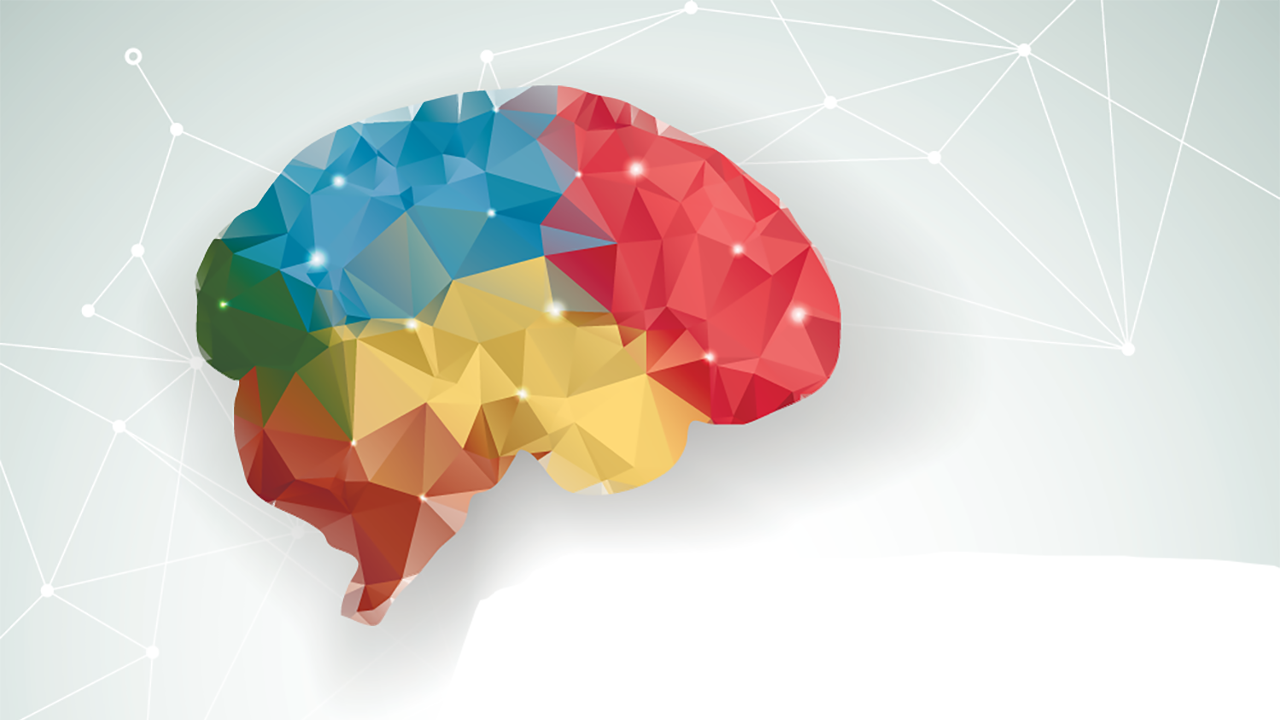
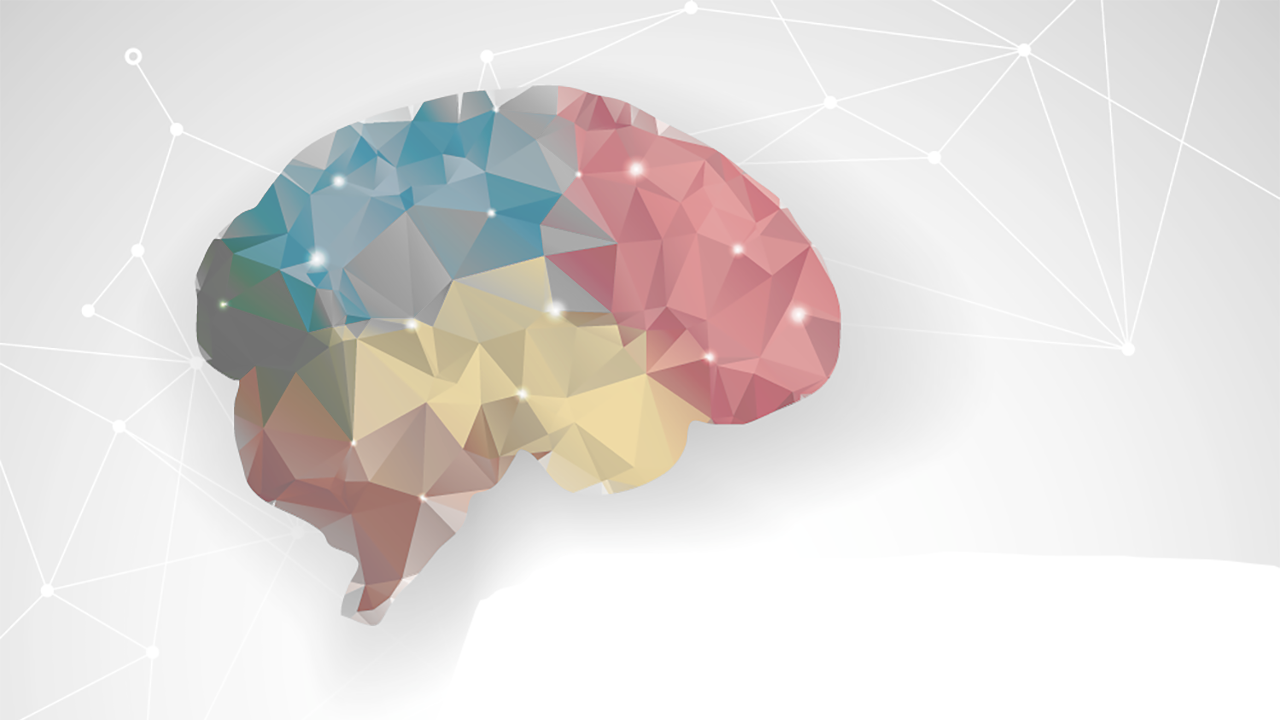
Update to work

Changed region(s): [[0.1562, 0.1222, 0.6562, 0.8861]]

diff --git a/Goal.js b/Goal.js
@@ -271,26 +271,58 @@ function init(relationship) {
                 { type: "html", name: "info", html: "<p> Most of us have goals--situations, conditions, states we are trying to make happen in the future.  In this measure, you will identify and describe the most important goals that you have had, that you are typically or characteristically trying to make happen.</p><p>Do not write down new goals that you create just for the purpose of this measure.  Only write down goals that have been on your mind before now, that you have already been directing effort towards and acting upon.</p><p> To help you identify your most important goals, you will first complete a brainstorming exercise.</p><p><b>Brainstorming</b></p><p> To help you identify your most important goals, you will first reflect on what you typically do in different life areas or domains.  After you reflect on what you are typically doing, you will then be asked if you have a goal in that life area, and if so, to describe that goal.</p>"}
             ]},
             
+            {questions: [
+                { type: "html", name: "title", html: "<b>Work/Job/Career</b>"
+                },
+                {
+                type: "comment",
+                name: "work",
+                title: "First, describe what you typically do that is related to making money, work, job, or career.  What daily actions or characteristic behaviors of yours relate to work-job-career? What types of situations do you seek out related to work-job-career (e.g. drive to Walmarts to do my shift, go to school to get a degree, try to impress my boss, invest money in stocks, etc.)?"
+                }
+            ]},
             
+            {questions: [
+                {
+                    type: "radiogroup",
+                    name: "workGoalBool",
+                    title: "After reflecting on your actions in this area, do you think that you have had a goal-before now--related to work/job/career?",
+                    choices: ["Yes", "No"]
+                },
+                {
+                    type: "comment",
+                    name: "workGoal",
+                    title: "Write your most important goal you have related to money and/or a job/occupation/career."
+                }
+            ]}, 
+            
+            {questions: [
+                {
+                    type: "radiogroup",
+                    name: "largerGoalBool",
+                    title: "Is your goal a part of a broader, larger goal related to money/work/career? For instance, a goal to pass a class may relate to a larger goal of attaining a meaningful and rewarding career.",
+                    choices: ["Yes", "No"]
+                },
+                {
+                    type: "comment",
+                    name: "largerGoal",
+                    title: "Write whatever is your broadest or largest goal related to money/job/career:"
+                }
+            ]}, 
             
             {questions: [
                 {//Radio group asking about how freuqnetly the person thinks about the relationship they are answering about.
                     type: "radiogroup",
                     name: "thoughtsrel0",
-                    title: "How often are thoughts of your " + relationship[0] + " on your mind?",
+                    title: "How often are thoughts of your goal on your mind?",
                     colCount: 0,
                     isRequired: true,
-                    choices: ["I don't have a " + relationship[0], "Never", "Rarely", "sometimes|Occasionally/sometimes", "Often", "time|Most of the Time", "Always"]
+                    choices: ["Never", "Rarely", "sometimes|Occasionally/sometimes", "Often", "time|Most of the Time", "Always"]
                 }
             ]},
             {questions: [
-    
-                //This html describes how to think about the next set of questions.
-                { type: "html", name: "inforel0", visibleIf: "{thoughtsrel0} contains 'Always' or {thoughtsrel0}='Often' or {thoughtsrel0}='time' or {thoughtsrel0}='sometimes' or {thoughtsrel0}='Rarely'", visible: false, html: "</p> <p> Think about a typical experience with your " + relationship[0] + ". Picture your " + relationship[0] + "’s face, and try to form a good image of your " + relationship[0] + ", getting an experience of You-with-your-" + relationship[0] + ".  It might help to imagine what typically happens between the two of you: what your " + relationship[0] + " does and says, how your " + relationship[0] + " does it, and what you do and say, how you do it, as well as what you are trying to do. </p> <p> Once you have recreated this experience of You-with-your-" + relationship[0] + ", please read each of the following items carefully, and rate the extent to which each statement is generally true for how you feel and think about yourself when you are interacting with your " + relationship[0] + " (now, at this point in your life)."},
-
                 
                 //A matrix question is a set of questions using a likert or likert-like scale. So the scale goes across the top (columns), and the questions allong the side(rows). Values will be useful in the final data set. Text is what is visible to the participant.   
-                { type: "matrix", name: "Qualityrel0", title: "When I interact with my " + relationship[0] + ", I feel  ... ", visibleIf: "{thoughtsrel0} contains 'Always' or {thoughtsrel0}='Often' or {thoughtsrel0}='time' or {thoughtsrel0}='sometimes' or {thoughtsrel0}='Rarely'", visible: false, isRequired: true,
+                { type: "matrix", name: "Qualityrel0", title: "When I think about my goal or when I am doing activities related to my goal, I feel: ", visibleIf: "{thoughtsrel0} contains 'Always' or {thoughtsrel0}='Often' or {thoughtsrel0}='time' or {thoughtsrel0}='sometimes' or {thoughtsrel0}='Rarely'", visible: false, isRequired: true,
                         columns: [{ value: 1, text: "Not True At All" },
                             { value: 2, text: " " },
                             { value: 3, text: " " },
@@ -318,7 +350,7 @@ function init(relationship) {
                     title: "How often are thoughts of your " + relationship[1] + " on your mind?",
                     colCount: 0,
                     isRequired: true,
-                    choices: ["I don't have a " + relationship[1], "Never", "Rarely", "sometimes|Occasionally/sometimes", "Often", "time|Most of the Time", "Always"]
+                    choices: ["Never", "Rarely", "sometimes|Occasionally/sometimes", "Often", "time|Most of the Time", "Always"]
                 }
             ]},
             {questions: [
@@ -356,7 +388,7 @@ function init(relationship) {
                     title: "How often are thoughts of your " + relationship[2] + " on your mind?",
                     colCount: 0,
                     isRequired: true,
-                    choices: ["I don't have a " + relationship[2], "Never", "Rarely", "sometimes|Occasionally/sometimes", "Often", "time|Most of the Time", "Always"]
+                    choices: ["Never", "Rarely", "sometimes|Occasionally/sometimes", "Often", "time|Most of the Time", "Always"]
                 }
             ]},
             {questions: [
@@ -394,10 +426,10 @@ function init(relationship) {
                     //Just some words added to the question
                     type: "radiogroup",
                     name: "thoughtsrel3",
-                    title: "How often are thoughts of your " + relationship[3] + " on your mind? (If you have more than one " + relationship[3] + ", answer this question for the one who you think about most frequently)",
+                    title: "How often are thoughts of your " + relationship[3] + " on your mind?",
                     colCount: 0,
                     isRequired: true,
-                    choices: ["I don't have a " + relationship[3], "Never", "Rarely", "sometimes|Occasionally/sometimes", "Often", "time|Most of the Time", "Always"]
+                    choices: ["Never", "Rarely", "sometimes|Occasionally/sometimes", "Often", "time|Most of the Time", "Always"]
                 }
             ]},
             {questions: [
@@ -432,10 +464,10 @@ function init(relationship) {
                     //Radio group asking about how freuqnetly the person thinks about the relationship they are answering about. 
                     type: "radiogroup",
                     name: "thoughtsrel4",
-                    title: "How often are thoughts of your " + relationship[4] + " on your mind? (If you have more than one " + relationship[4] + ", answer this question for the one who you think about most frequently)",
+                    title: "How often are thoughts of your " + relationship[4] + " on your mind?",
                     colCount: 0,
                     isRequired: true,
-                    choices: ["I don't have a " + relationship[4], "Never", "Rarely", "sometimes|Occasionally/sometimes", "Often", "time|Most of the Time", "Always"]
+                    choices: ["Never", "Rarely", "sometimes|Occasionally/sometimes", "Often", "time|Most of the Time", "Always"]
                 }
             ]},
             {questions: [
@@ -470,10 +502,10 @@ function init(relationship) {
                     //Radio group asking about how freuqnetly the person thinks about the relationship they are answering about.
                     type: "radiogroup",
                     name: "thoughtsrel5",
-                    title: "How often are thoughts of your " + relationship[5] + " on your mind? (If you have more than one " + relationship[5] + ", answer this question for the one who you think about most frequently)",
+                    title: "How often are thoughts of your " + relationship[5] + " on your mind?",
                     colCount: 0,
                     isRequired: true,
-                    choices: ["I don't have a " + relationship[5], "Never", "Rarely", "sometimes|Occasionally/sometimes", "Often", "MostOfTheTime|Most of the Time", "Always"]
+                    choices: ["Never", "Rarely", "sometimes|Occasionally/sometimes", "Often", "MostOfTheTime|Most of the Time", "Always"]
                 }
             ]},
             {questions: [
@@ -504,14 +536,14 @@ function init(relationship) {
                         ]}
             ]},
             {questions: [
-                //Special question with fill-in-the-blank name. Radio group asking about how freuqnetly the person thinks about the relationship they are answering about.
                 {
-                    type: "text",
-                    name: "name1",
-                    title: "Think about another friend, or even acquaintance, who you interact with or think about a fair amount.  Write this person’s first name here: ",
+                    //Radio group asking about how freuqnetly the person thinks about the relationship they are answering about.
+                    type: "radiogroup",
+                    name: "thoughtsrel6",
+                    title: "How often are thoughts of your " + relationship[6] + " on your mind?",
+                    colCount: 0,
                     isRequired: true,
-                    size: 15,
-                    width: "4"
+                    choices: ["Never", "Rarely", "sometimes|Occasionally/sometimes", "Often", "MostOfTheTime|Most of the Time", "Always"]
                 }
             ]},
             {questions: [
@@ -541,14 +573,14 @@ function init(relationship) {
                         ]}
             ]},
             {questions: [
-                //Special question with fill-in-the-blank name. Radio group asking about how freuqnetly the person thinks about the relationship they are answering about.
                 {
-                    type: "text",
-                    name: "name2",
-                    title: "Think about another friend, or even acquaintance, who you interact with or think about a fair amount.  Write this person’s first name here: ",
+                    //Radio group asking about how freuqnetly the person thinks about the relationship they are answering about.
+                    type: "radiogroup",
+                    name: "thoughtsrel7",
+                    title: "How often are thoughts of your " + relationship[7] + " on your mind?",
+                    colCount: 0,
                     isRequired: true,
-                    size: 15,
-                    width: "4"
+                    choices: ["Never", "Rarely", "sometimes|Occasionally/sometimes", "Often", "MostOfTheTime|Most of the Time", "Always"]
                 }
             ]},
             {questions: [
@@ -578,14 +610,14 @@ function init(relationship) {
                         ]}
             ]},
             {questions: [
-                //Special question with fill-in-the-blank name. Radio group asking about how freuqnetly the person thinks about the relationship they are answering about.
                 {
-                    type: "text",
-                    name: "name3",
-                    title: "Think of a person that you often interact with but who you think may sometimes view you negatively or critically. This person should be different from any persons you have already answered questions for on this survey.  Please write the first name of this person who you think may view you negatively sometimes here: ",
+                    //Radio group asking about how freuqnetly the person thinks about the relationship they are answering about.
+                    type: "radiogroup",
+                    name: "thoughtsrel8",
+                    title: "How often are thoughts of your " + relationship[8] + " on your mind?",
+                    colCount: 0,
                     isRequired: true,
-                    size: 15,
-                    width: "4"
+                    choices: ["Never", "Rarely", "sometimes|Occasionally/sometimes", "Often", "MostOfTheTime|Most of the Time", "Always"]
                 }
             ]},
             {questions: [
@@ -615,14 +647,14 @@ function init(relationship) {
                         ]}
             ]},
             {questions: [
-                //Special question with fill-in-the-blank name. Radio group asking about how freuqnetly the person thinks about the relationship they are answering about.
                 {
-                    type: "text",
-                    name: "name4",
-                    title: " Now think of a role or identity (e.g., teacher, boss, employee, poet, athlete, musician, mentor, etc.) that is important to how you think about yourself.  Please write the name of this role here: ",
+                    //Radio group asking about how freuqnetly the person thinks about the relationship they are answering about.
+                    type: "radiogroup",
+                    name: "thoughtsrel9",
+                    title: "How often are thoughts of your " + relationship[9] + " on your mind?",
+                    colCount: 0,
                     isRequired: true,
-                    size: 15,
-                    width: "4"
+                    choices: ["Never", "Rarely", "sometimes|Occasionally/sometimes", "Often", "MostOfTheTime|Most of the Time", "Always"]
                 }
             ]},
             {questions: [
@@ -725,5 +757,5 @@ function init(relationship) {
 //This is just the way js works. There is a thing asking if the page came up properly, and if so then run the init above. 
 if (!window["%hammerhead%"]) {
     //console.log("begin"); //debugging code.
-    init(["Mother", "Father", "Romantic Partner", "Ex-Romantic Partner", "Sibling", "Close Friend"]);
+    init(["Goal", "Home and Household matters", "Intimate Relationships (with boyfriend/girlfriend, husband/wife, love, and intimacy)", "Non-Intimate Relationships (with family, relatives, friends, acquaintances)", "Self-Change/Self-Growth (e.g., want to be less depressed, happier, more honest, etc.)", "Learning/Education", "Health and Medical Matters (e.g., want to lose weight, manage my diabetes, be more fit, etc.)", "Leisure/Recreation (learn how to play tennis, the guitar, read )", "Other Life Area Not Previously Mentioned"]);
 }

diff --git a/GoalResults.html b/GoalResults.html
@@ -24,7 +24,7 @@ d3
     <meta name="description" content="">
     <meta name="author" content="">
 
-    <title>Current Self-Beliefs</title>
+    <title>Goals Measure</title>
 
     <!-- Bootstrap core CSS -->
     <link rel="stylesheet" href="https://maxcdn.bootstrapcdn.com/bootstrap/4.0.0-beta/css/bootstrap.min.css" integrity="sha384-/Y6pD6FV/Vv2HJnA6t+vslU6fwYXjCFtcEpHbNJ0lyAFsXTsjBbfaDjzALeQsN6M" crossorigin="anonymous">
@@ -73,6 +73,9 @@ d3
             <li class="nav-item">
               <a class="nav-link" href="RSSM.html">RSSM</a>
             </li>
+            <li class="nav-item">
+              <a class="nav-link" href="Goal.html">Goals Measure</a>
+            </li>
             <!--li class="nav-item">
               <a class="nav-link" href="contact.html">Contact</a>
             </li-->
@@ -82,12 +85,12 @@ d3
     </nav>
 
     <!-- Page Header -->
-     <header class="masthead" style="background-image: url('img/brainColorSplatters.jpg')"> 
+     <header class="masthead" style="background-image: url('img/brain-background-slide.png')"> 
         <div class="container">
             <div class="row">
                 <div class="col-md-7 col-md-10 mx-auto">
                     <div class="site-heading">
-                        <h1>Your RSSM Results</h1>
+                        <h1>Your Goal Measure Results</h1>
                     </div>
                 </div>
             </div>
